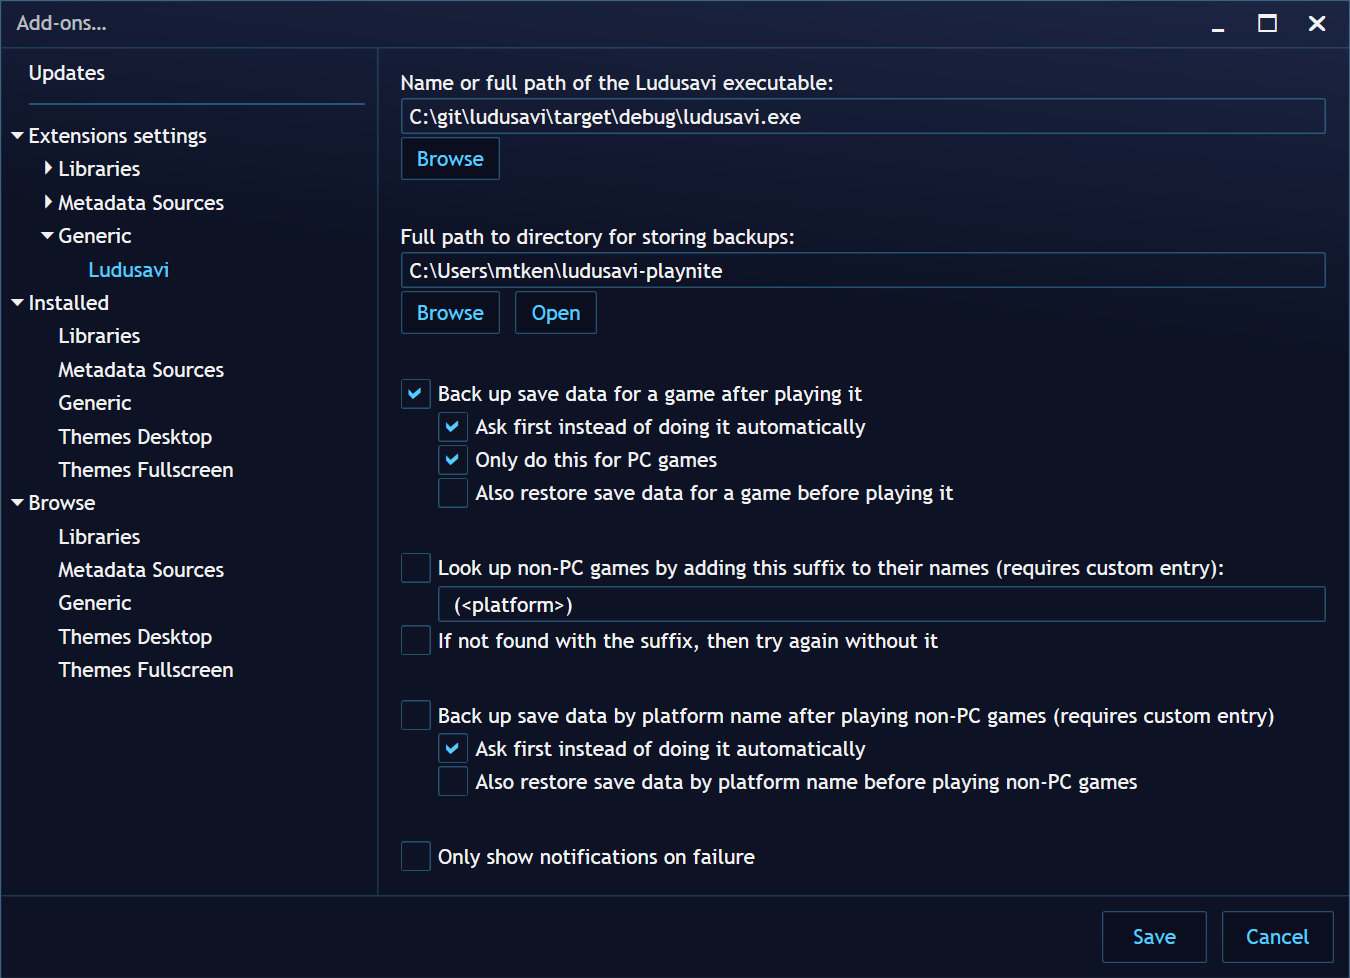
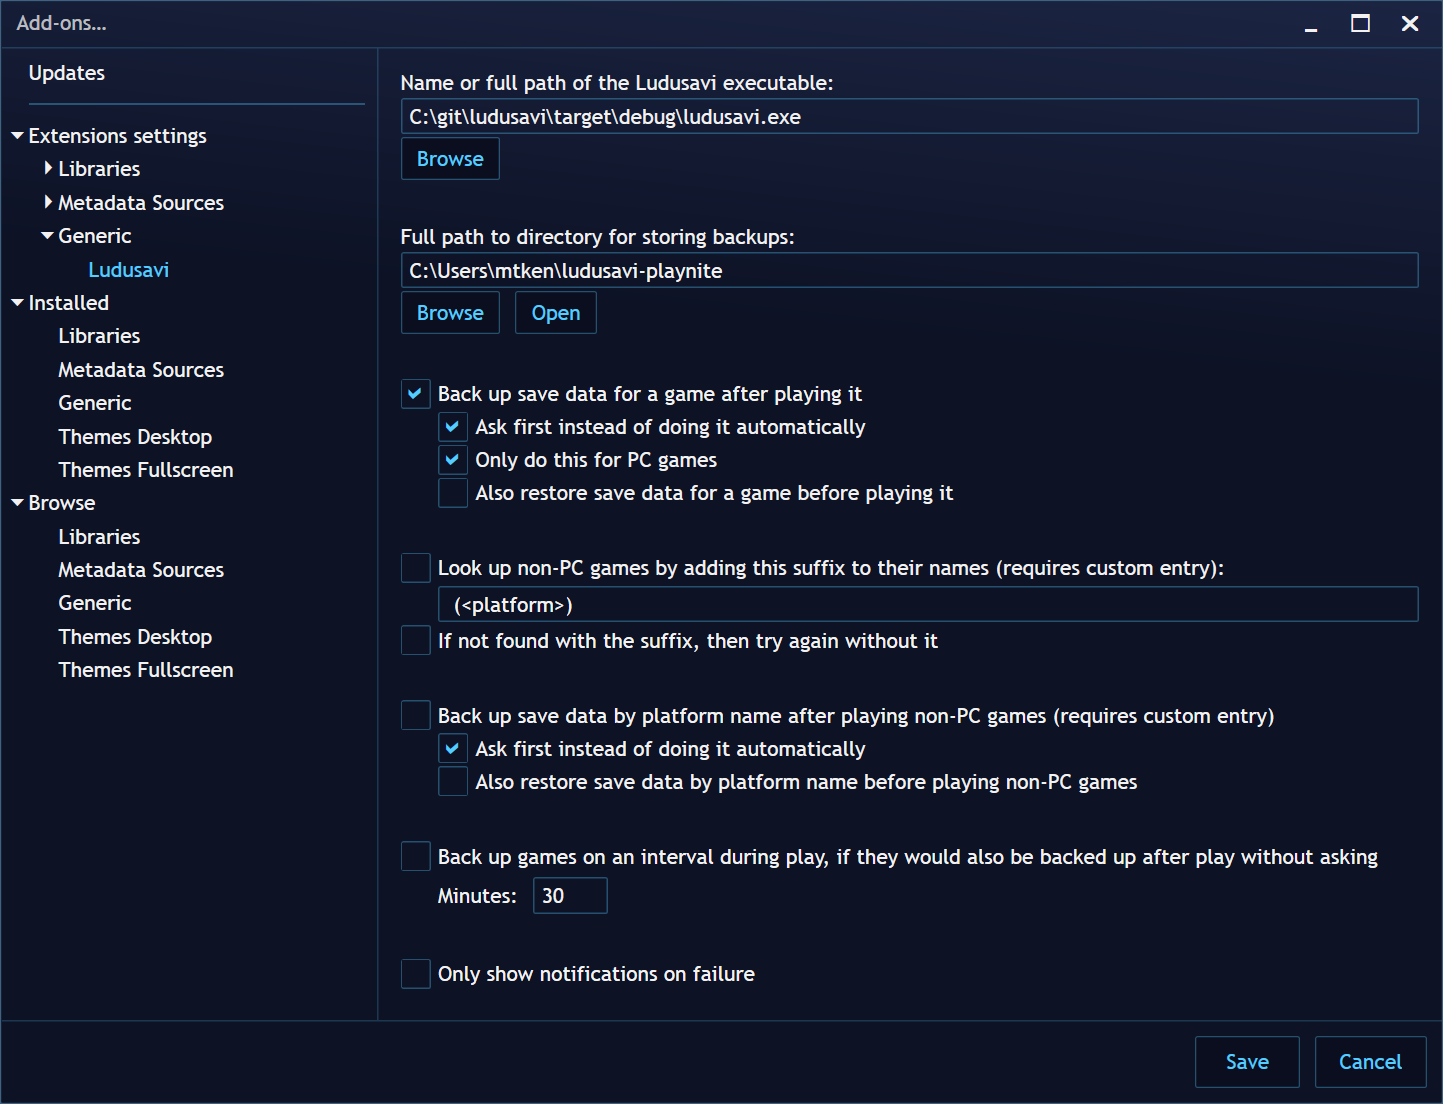
Release v0.10.0

diff --git a/README.md b/README.md
@@ -1,11 +1,12 @@
 # Ludusavi for Playnite
-This repository contains a [Playnite 8+](https://playnite.link) plugin to
+This repository contains a [Playnite](https://playnite.link) plugin to
 back up your save data using [Ludusavi](https://github.com/mtkennerly/ludusavi).
 
 ## Features
-* Known save locations for more than 8,000 games.
+* Known save locations for more than 10,000 games.
 * On-demand backup and restore for all saves.
-* Automatically back up a game when you finish playing it.
+* Automatically back up a game when you finish playing it
+  and even periodically during play.
 
 The [info on what to back up](https://github.com/mtkennerly/ludusavi-manifest)
 is ultimately sourced from [PCGamingWiki](https://www.pcgamingwiki.com/wiki/Home),
@@ -18,8 +19,8 @@ If you'd like to help translate this plugin into other languages,
 ## Setup
 ### Ludusavi
 Refer to the [Ludusavi project](https://github.com/mtkennerly/ludusavi)
-for instructions on how to install Ludusavi itself. You'll need Ludusavi
-version 0.7.0 or newer, but 0.12.0+ is recommended to enable more features.
+for instructions on how to install Ludusavi itself. Ludusavi 0.12.0 or newer
+is recommended, but version 0.7.0 or newer will work (albeit without some features).
 
 By default, the plugin will look for the Ludusavi executable in your `PATH`
 environment variable, but you can also configure the plugin with the full

diff --git a/CHANGELOG.md b/CHANGELOG.md
@@ -1,4 +1,4 @@
-## Unreleased
+## v0.10.0 (2022-09-01)
 
 * Added:
   * Support for multiple backups per game. This requires Ludusavi 0.12.0 or newer.
